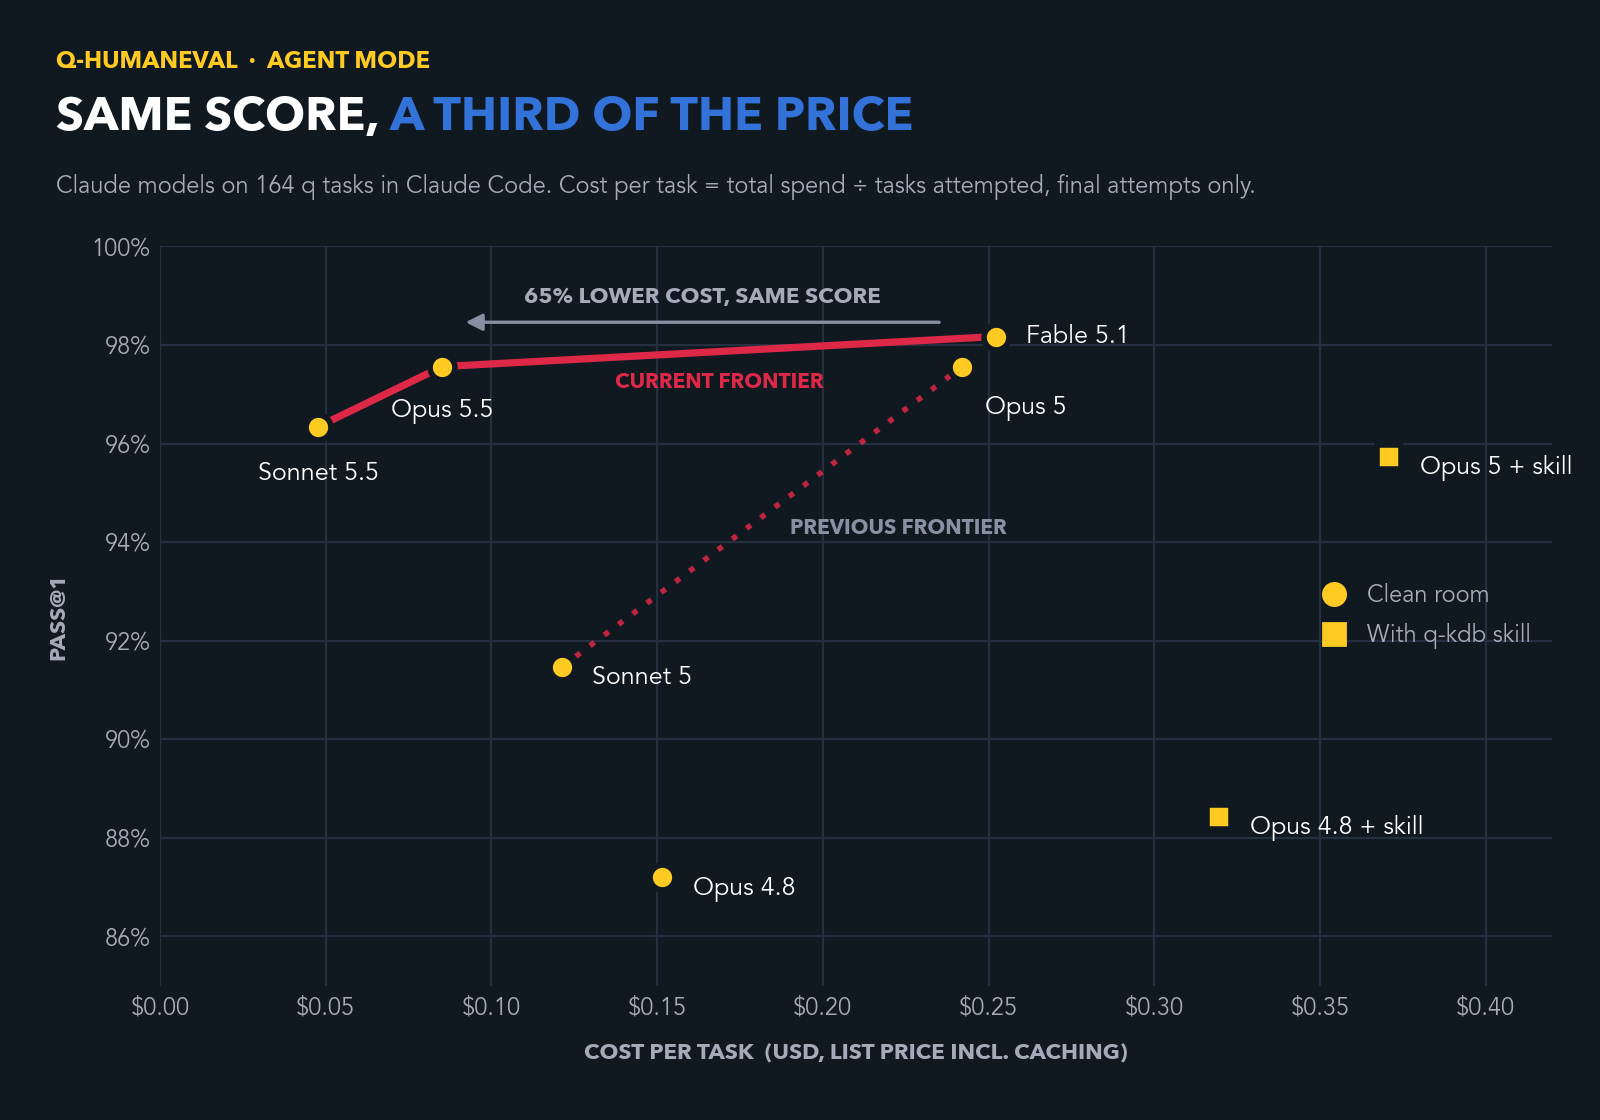
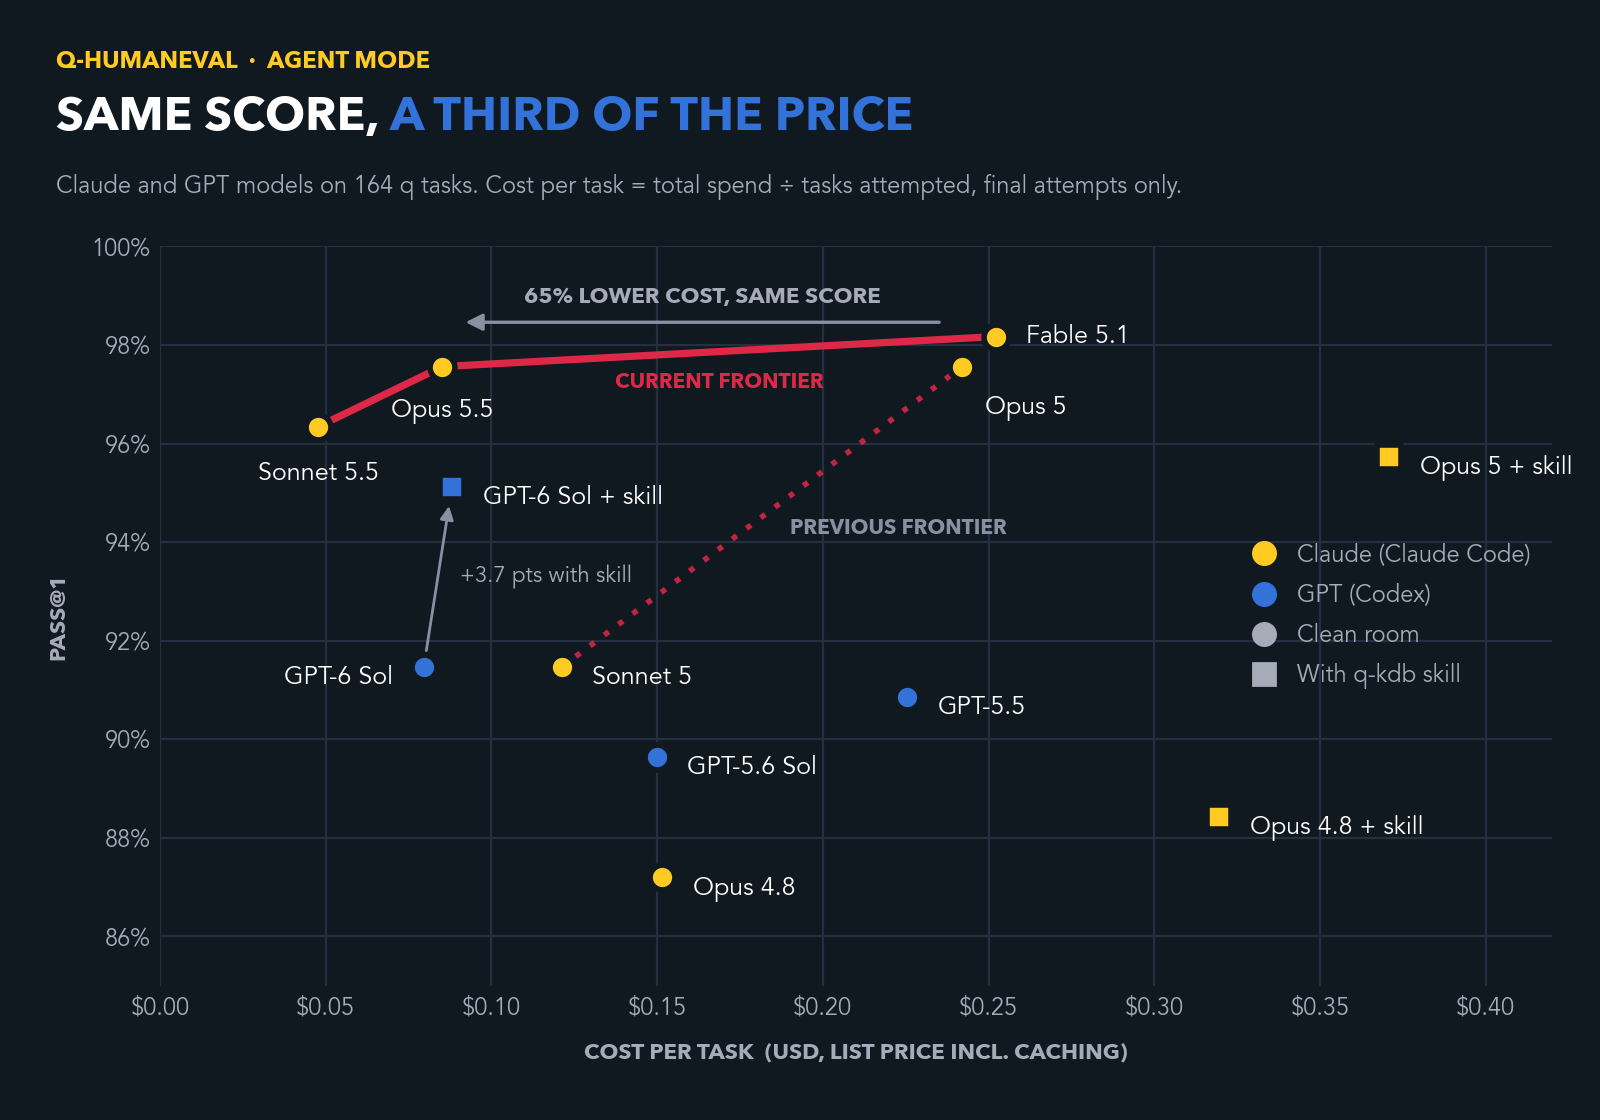
Cost chart: add GPT-5.5 / 5.6 Sol / 6 Sol and the skill's effect on GPT-6 Sol
GPT points in the KX link blue; shape still marks clean room vs skill. A
light arrow shows GPT-6 Sol's clean-room -> skilled jump (+3.7 pts).

diff --git a/scripts/plot_cost_vs_quality.py b/scripts/plot_cost_vs_quality.py
@@ -4,8 +4,9 @@
 Cost per task = total API-equivalent spend / tasks attempted (164), i.e. the
 per-attempt metric Databricks reports in "Benchmarking Coding Agents on
 Databricks' Multi-Million Line Codebase" (July 2026). List prices including
-cache reads/writes, as reported by the Claude Code CLI; only each task's final
-attempt counts (harness-abort re-runs excluded).
+cache reads/writes, as reported by the Claude Code CLI (Codex: computed from
+tokens, src/agents/pricing.py); only each task's final attempt counts
+(harness-abort re-runs excluded).
 
 Styled after kx.com: dark panel, yellow marks, red frontier, heavy
 uppercase headline with one phrase in the link blue. One image serves both
@@ -28,7 +29,8 @@ N = 164
 # Sources: outputs/results_agent_<model>_{noskill,skill}.json (Fable 5.1:
 # final attempts only, $41.35). Opus 5 skill arm
 # counts final attempts only ($60.82). Opus 4.8 as published in #9 (run data
-# not in this checkout; --timeout 300).
+# not in this checkout; --timeout 300). GPT rows: outputs/sweep_gpt{,_skilled}
+# (Codex 0.160.0, 2026-10-02).
 ROWS = [
     ("Fable 5.1",  False, 161, 41.35),
     ("Opus 5.5",   False, 160, 13.97),
@@ -38,9 +40,16 @@ ROWS = [
     ("Opus 5",     True,  157, 60.82),
     ("Opus 4.8",   False, 143, 24.86),
     ("Opus 4.8",   True,  145, 52.40),
+    ("GPT-5.5",     False, 149, 36.98),
+    ("GPT-5.6 Sol", False, 147, 24.59),
+    ("GPT-6 Sol",   False, 150, 13.05),
+    ("GPT-6 Sol",   True,  156, 14.45),
 ]
 
-NEW = {"Fable 5.1", "Opus 5.5", "Sonnet 5.5"}
+NEW = {"Fable 5.1", "Opus 5.5", "Sonnet 5.5", "GPT-5.6 Sol", "GPT-6 Sol"}
+GPT = {"GPT-5.5", "GPT-5.6 Sol", "GPT-6 Sol"}
+# model whose clean-room -> skilled jump gets an arrow
+SKILL_ARROW = "GPT-6 Sol"
 
 # label offsets in points, hand-placed to avoid collisions
 OFFSETS = {
@@ -48,6 +57,8 @@ OFFSETS = {
     ("Sonnet 5", False): (11, -4), ("Opus 5", False): (8, -15),
     ("Opus 5", True): (11, -4), ("Opus 4.8", False): (11, -4),
     ("Opus 4.8", True): (11, -4), ("Fable 5.1", False): (11, 0),
+    ("GPT-5.5", False): (11, -4), ("GPT-5.6 Sol", False): (11, -4),
+    ("GPT-6 Sol", False): (-11, -4), ("GPT-6 Sol", True): (11, -4),
 }
 
 # kx.com palette (from the site's CSS custom properties)
@@ -122,9 +133,20 @@ def draw():
                 ((x_old + x_new) / 2, ay), xytext=(0, 7), textcoords="offset points",
                 ha="center", fontsize=8, color=INK2, **BOLD)
 
+    # the skill's effect on one model: clean-room point -> skilled point
+    (c0, y0), (c1, y1) = [(x, y) for (name, _, _, _), (x, y) in zip(ROWS, pts)
+                          if name == SKILL_ARROW]
+    ax.annotate("", xy=(c1, y1), xytext=(c0, y0),
+                arrowprops=dict(arrowstyle="-|>,head_length=0.4,head_width=0.2",
+                                color=MUTED, lw=1, shrinkA=6, shrinkB=7))
+    ax.annotate(f"+{y1 - y0:.1f} pts with skill", ((c0 + c1) / 2, (y0 + y1) / 2),
+                xytext=(8, 0), textcoords="offset points", va="center",
+                fontsize=8, color=INK2)
+
     for (name, skill, p, cost), (x, y) in zip(ROWS, pts):
         ax.scatter(x, y, s=80, marker="s" if skill else "o",
-                   color=YELLOW, edgecolors=BG, linewidths=2, zorder=4)
+                   color=BLUE if name in GPT else YELLOW,
+                   edgecolors=BG, linewidths=2, zorder=4)
         dx, dy = OFFSETS[(name, skill)]
         ax.annotate(name + (" + skill" if skill else ""), (x, y), xytext=(dx, dy),
                     textcoords="offset points",
@@ -145,8 +167,10 @@ def draw():
     ax.tick_params(colors=INK2, length=0, labelsize=8.5)
 
     legend = [
-        Line2D([], [], marker="o", ls="", ms=8, color=YELLOW, label="Clean room"),
-        Line2D([], [], marker="s", ls="", ms=8, color=YELLOW, label="With q-kdb skill"),
+        Line2D([], [], marker="o", ls="", ms=8, color=YELLOW, label="Claude (Claude Code)"),
+        Line2D([], [], marker="o", ls="", ms=8, color=BLUE, label="GPT (Codex)"),
+        Line2D([], [], marker="o", ls="", ms=8, color=INK2, label="Clean room"),
+        Line2D([], [], marker="s", ls="", ms=8, color=INK2, label="With q-kdb skill"),
     ]
     leg = ax.legend(handles=legend, loc="center right", frameon=False, fontsize=8.5,
                     handletextpad=0.4, labelspacing=0.6)
@@ -157,7 +181,7 @@ def draw():
              color=YELLOW, va="top", **BOLD)
     headline(fig, 0.035, 0.915, [("SAME SCORE, ", INK), ("A THIRD OF THE PRICE", BLUE)],
              fontsize=17, va="top", **BOLD)
-    fig.text(0.035, 0.845, "Claude models on 164 q tasks in Claude Code. Cost per task = "
+    fig.text(0.035, 0.845, "Claude and GPT models on 164 q tasks. Cost per task = "
              "total spend ÷ tasks attempted, final attempts only.",
              fontsize=8.5, color=INK2, va="top")
     fig.subplots_adjust(left=0.1, right=0.97, top=0.78, bottom=0.12)
